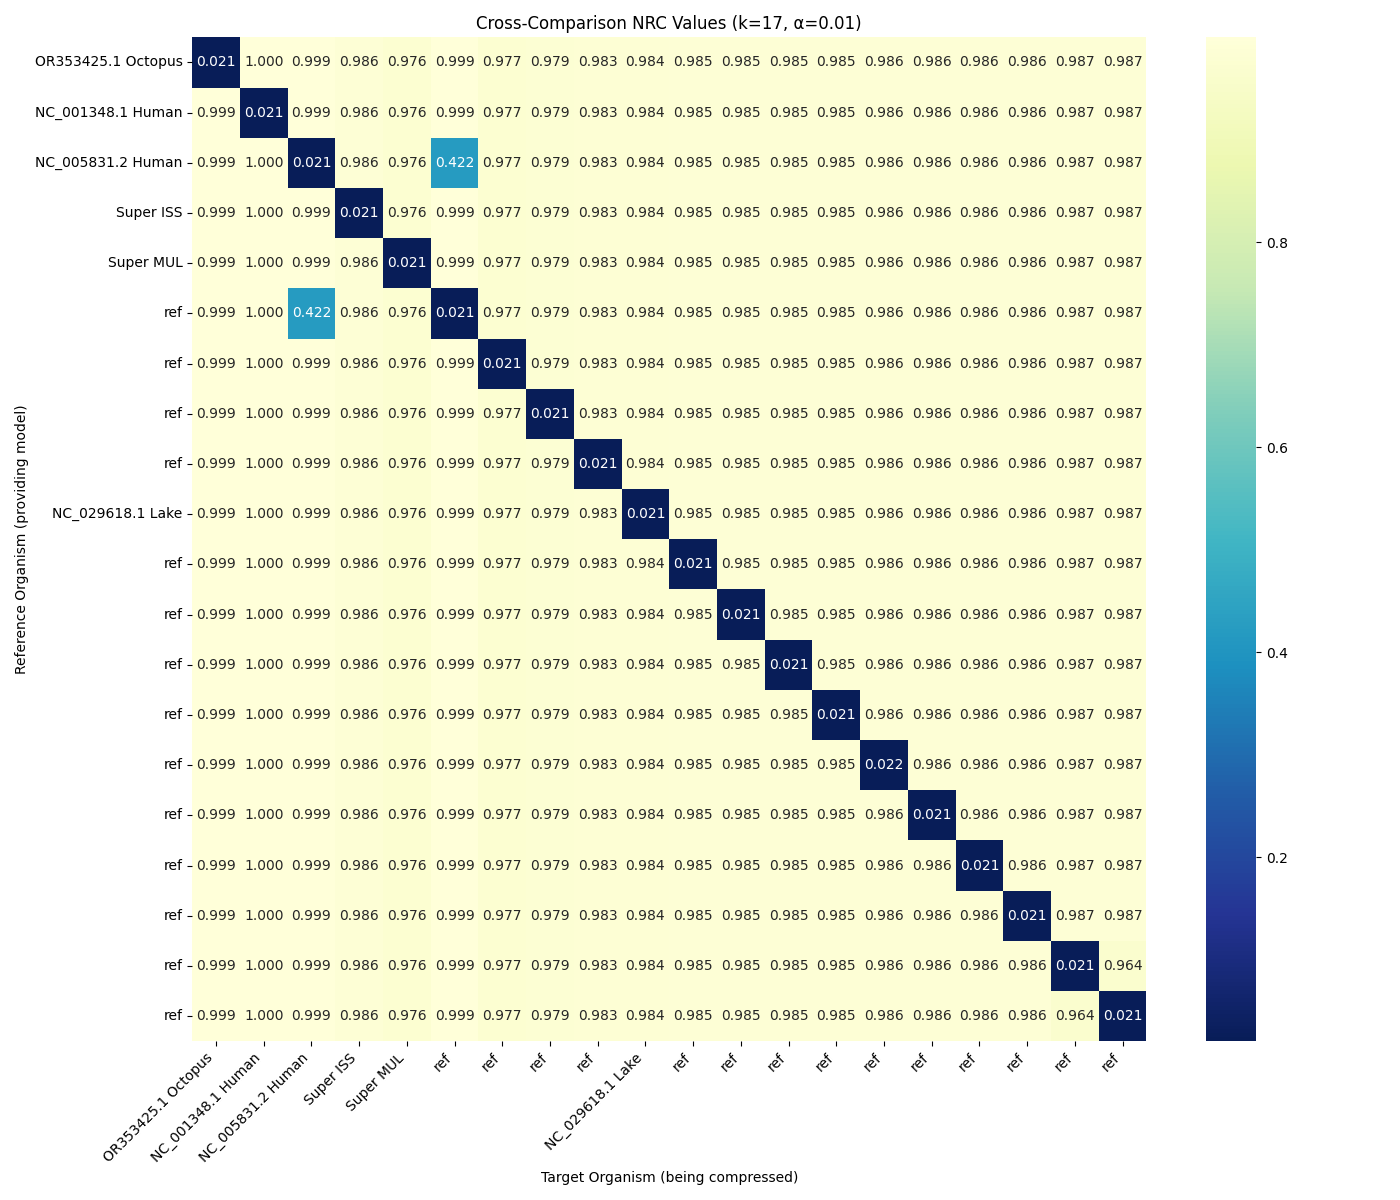
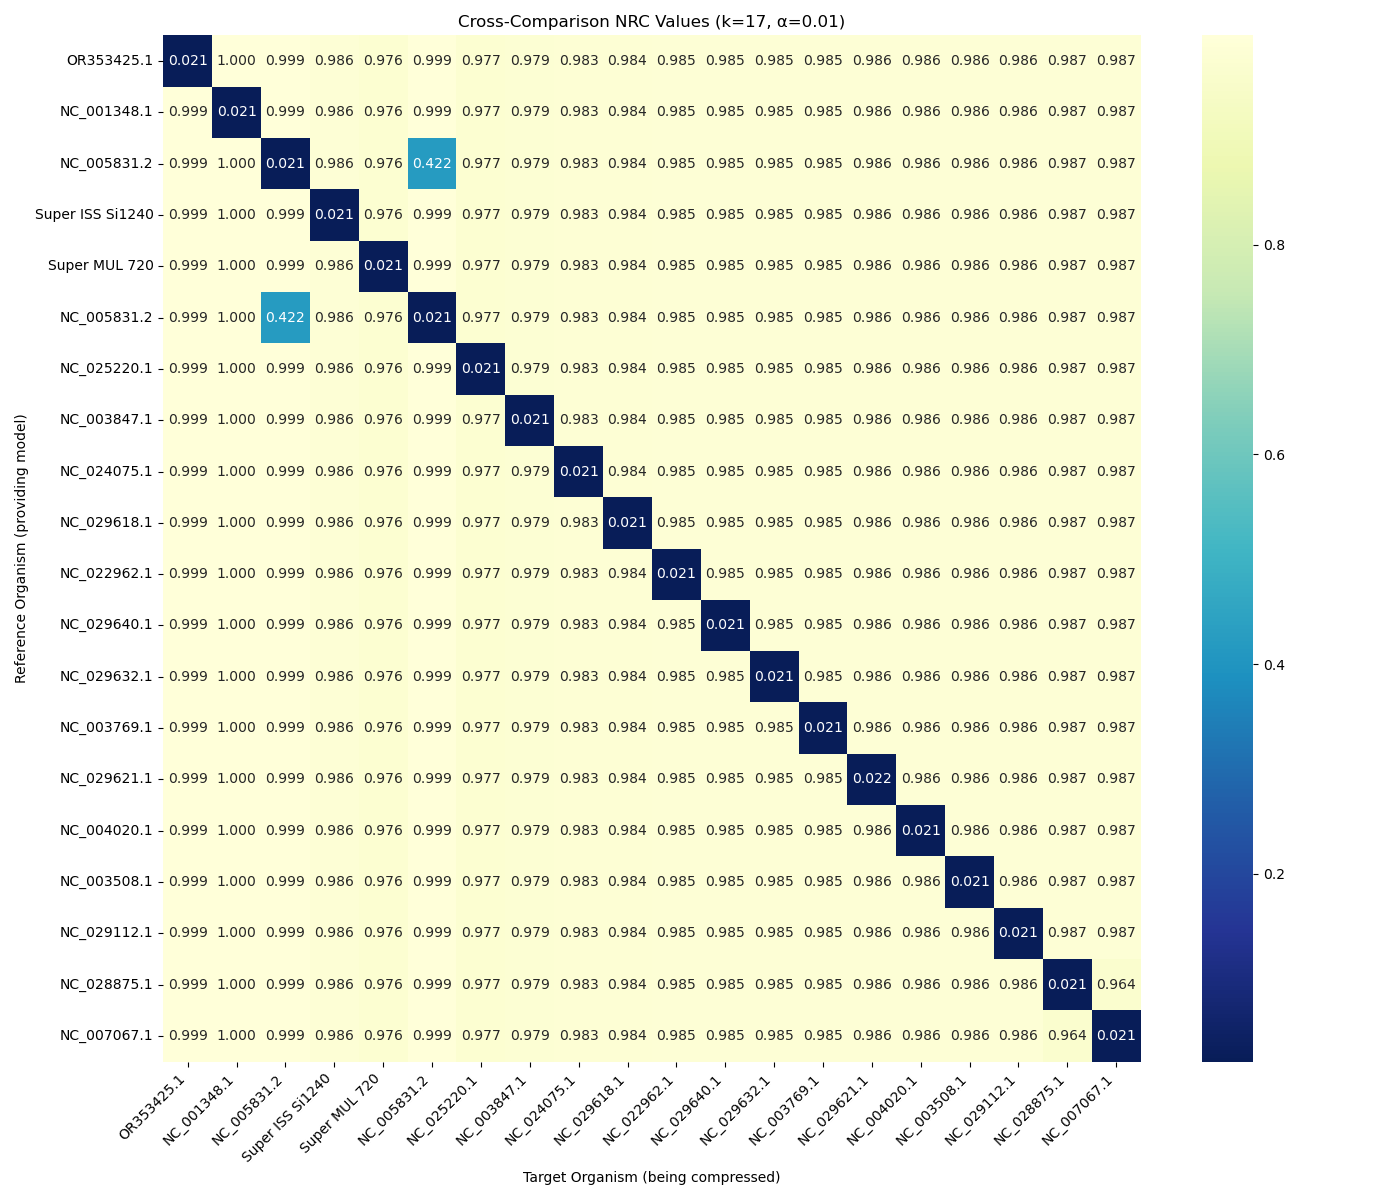
fix: corrected organism names in graphs

diff --git a/visualization/plot_organism_info.py b/visualization/plot_organism_info.py
@@ -86,19 +86,12 @@ def plot_cross_comparison(input_folder, output_dir):
     # Create shorter labels for the heatmap
     short_labels = []
     for name in organisms:
-        if "|" in name:
-            parts = name.split("|")
-            if len(parts) >= 3:
-                short_name = parts[2].strip()
-            else:
-                short_name = parts[0].strip()
-        else:
-            name_parts = name.split(" ")
-            if len(name_parts) > 2:
-                short_name = " ".join(name_parts[0:2])
-            else:
-                short_name = name
-        short_labels.append(short_name)
+        if '|' in name:
+            name = ''.join(name.split('|')[-2:])
+        name = name.split(',')[0]
+        if 'NC' in name or 'OR' in name:
+            name = name.split()[0]
+        short_labels.append(name)
 
     # Create NRC heatmap
     plt.figure(figsize=(14, 12))
